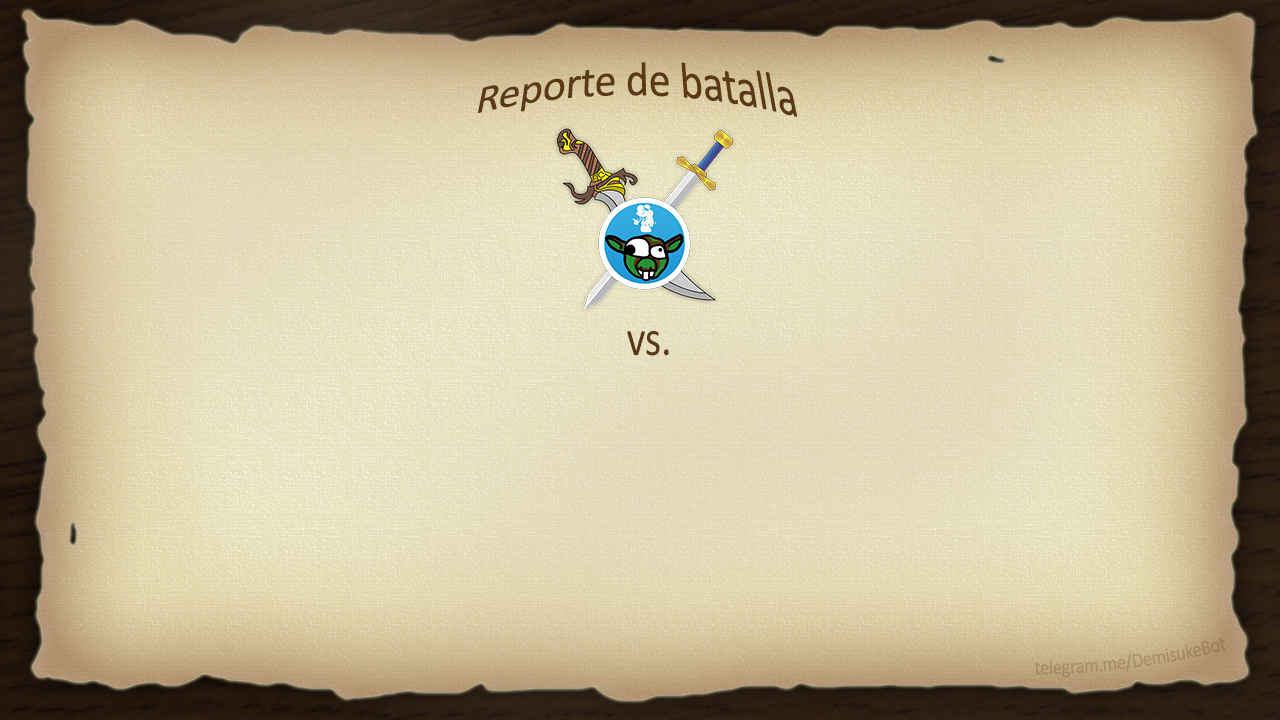
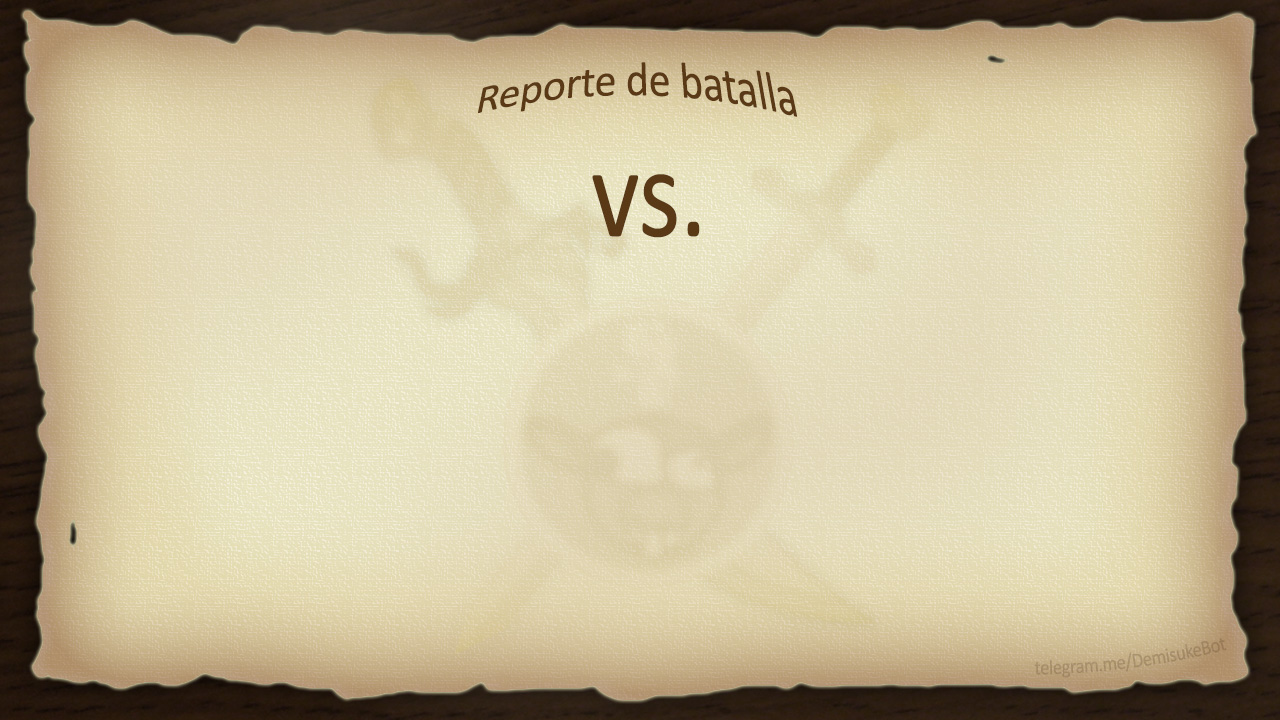
'demisukecommit'

diff --git a/demihello.php b/demihello.php
@@ -10074,18 +10074,23 @@ function processMessage($message) {
 				header('Content-type: image/jpeg');
 				$jpg_image = imagecreatefromjpeg('https://demisuke-kamigram.rhcloud.com/img/battle.jpg');
 				$home_image = imagecreatefromjpeg('https://demisuke-kamigram.rhcloud.com/img/squirtle.jpg');
+				$away_image = imagecreatefromjpeg('https://demisuke-kamigram.rhcloud.com/img/madrid.jpg');
 				$textColor = imagecolorallocate($jpg_image, 90, 57, 22);
 				$font_path = dirname(__FILE__)."/img/calibri.ttf";
 				
 				
 				list($base_width, $base_height) = getimagesize('https://demisuke-kamigram.rhcloud.com/img/battle.jpg');
 				list($home_width, $home_height) = getimagesize('https://demisuke-kamigram.rhcloud.com/img/squirtle.jpg');
+				list($away_width, $away_height) = getimagesize('https://demisuke-kamigram.rhcloud.com/img/madrid.jpg');
 				$res_image = imagecreatetruecolor($base_width, $base_height);
 				imagecopyresampled($res_image, $jpg_image, 0, 0, 0, 0, $home_width, $home_height, $base_width, $base_height);
-				imagecopyresampled($res_image, $home_image, 0, 0, 0, 0, 100, 100, $home_width, $home_height);
+				imagecopyresampled($res_image, $home_image, 250, 250, 0, 0, 100, 100, $home_width, $home_height);
+				imagecopyresampled($res_image, $away_image, 950, 250, 0, 0, 100, 100, $away_width, $away_height);
+				$home_name = "POLE";
+				imagettftext($res_image, 72, 0, 100, 400, $textColor, $font_path, $home_name);
 				imagejpeg($res_image, $imageURL, 100);
 				
-				$target_url    = "https://api.telegram.org/bot".BOT_TOKEN."/sendPhoto";
+				$target_url = "https://api.telegram.org/bot".BOT_TOKEN."/sendPhoto";
 				$file_name_with_full_path = realpath($imageURL);
 				$post = array('chat_id' => $chat_id, 'photo' =>'@'.$file_name_with_full_path);
 				$ch = curl_init();
